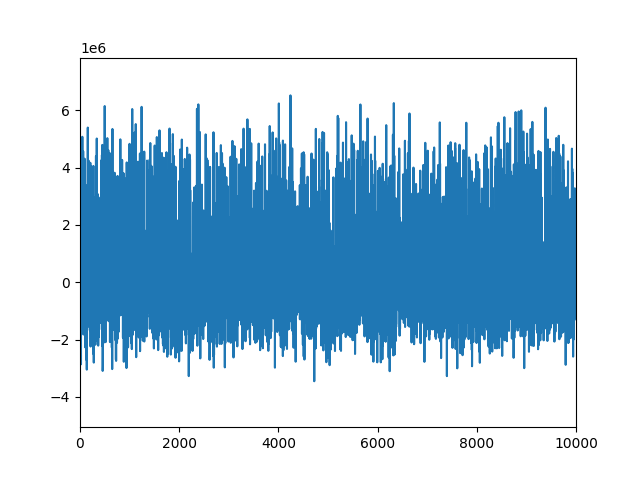
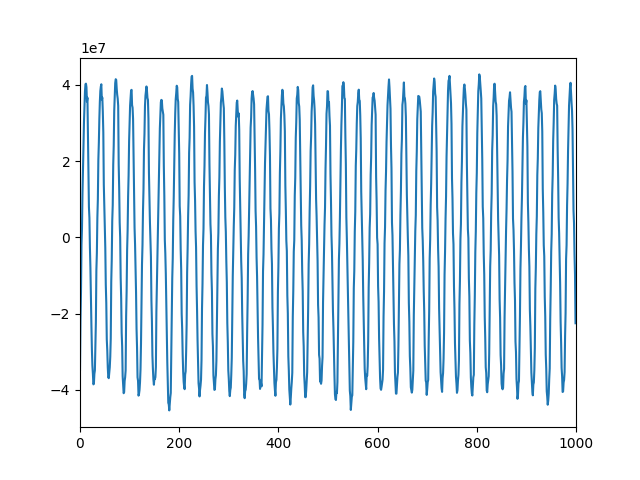
Improve analysis of sound

diff --git a/scripts/analyze_wav.py b/scripts/analyze_wav.py
@@ -35,20 +35,43 @@ print("Data shape: ", data.shape)
 print("Data type: ", data.dtype)
 # print("data: ", data)
 
-# Do fft 
-fft_result = np.fft.fft(data[:,0])
-print("fft_result: ", fft_result)
+# Do fft for left channel
+fft_result_left = np.fft.fft(data[:,0])
 
-# Plot the fft results showing only positive frequencies
-f = np.fft.fftfreq(len(fft_result), 1/samplerate)
+# Do fft for right channel
+fft_result_right = np.fft.fft(data[:,1])
+
+max_amplitude = np.max(np.abs(data))
+print("max_amplitude: ", max_amplitude)
+
+# Plot the fft results for both channels showing only positive frequencies in subplots
+f = np.fft.fftfreq(len(fft_result_left), 1/samplerate)
+
 plt.figure()
-plt.plot(f[:len(f)//2], np.abs(fft_result)[:len(f)//2])
+
+# Subplot for left channel
+plt.subplot(2, 1, 1)
+plt.title('FFT Results - Left Channel')
+plt.plot(f[:len(f)//2], np.abs(fft_result_left)[:len(f)//2])
+plt.xlabel('Frequency (Hz)')
+plt.ylabel('Amplitude')
+plt.grid()
+
+# Subplot for right channel
+plt.subplot(2, 1, 2)
+plt.title('FFT Results - Right Channel')
+plt.plot(f[:len(f)//2], np.abs(fft_result_right)[:len(f)//2])
+plt.xlabel('Frequency (Hz)')
+plt.ylabel('Amplitude')
+plt.grid()
+
+plt.tight_layout()
 plt.savefig('fft_result.png')
 
 # Plot the audio data
 plt.figure()
-plt.plot(data[:,0])
-plt.xlim(0, 10000)
+plt.plot(data[:,1][0:1000])
+plt.xlim(0, 1000)
 plt.savefig('audio_data.png')
 
 

diff --git a/scripts/record.py b/scripts/record.py
@@ -50,7 +50,7 @@ def record_audio(duration=5, sample_rate=44100, channels=2, data_format=alsaaudi
             reshaped_data = np.frombuffer(data, dtype='<i4').reshape(-1, channels, order='C')
 
             # data is really 24 bit, rescale to be 32 bit
-            reshaped_data = reshaped_data * 2**8
+            reshaped_data = reshaped_data * 2**9
 
             print("Max Amplitude: ", np.max(np.abs(reshaped_data)))
             audio_data.append(reshaped_data)
